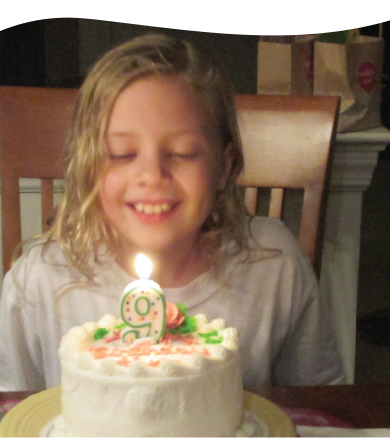
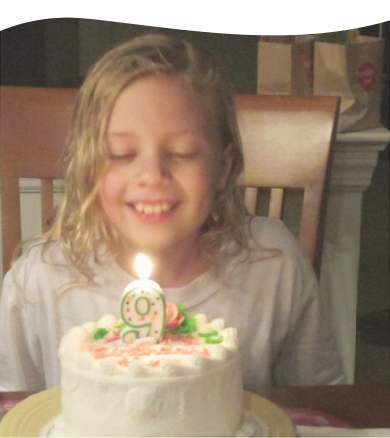
fixing up home story formatting a bit

diff --git a/src/pages/Home.tsx b/src/pages/Home.tsx
@@ -406,22 +406,22 @@ export default function Home() {
         />
         <div style={{ position: 'relative', width: '100%', zIndex: 1 }}>
           <img src="/assets/images/birthday-image.png" alt="" style={{ width: '100%', height: 'auto', display: 'block' }} />
-          <p style={{ position: 'absolute', left: '999px', top: '184px', width: '377px', fontSize: '38px', fontFamily: 'var(--font-body)', color: 'white', lineHeight: '1.3' }}>
+          <p style={{ position: 'absolute', left: '999px', top: '182px', width: '377px', fontSize: '38px', fontFamily: 'var(--font-body)', color: 'white', lineHeight: '1.3' }}>
             Hello! My name is Alexia Kouletsis. I grew up in Hershey, Pennsylvania. Since I was about nine years old, art has consumed my life. Art has been and will always be my creative outlet, emotional comfort, and method of appreciating the beauty in world around me.
           </p>
         </div>
-        <div style={{ position: 'relative', width: '100%', zIndex: 2, marginTop: '-250px' }}>
+        <div style={{ position: 'relative', width: '100%', zIndex: 2, marginTop: '-280px' }}>
           <img src="/assets/images/me-painting-image.png" alt="" style={{ width: '100%', height: 'auto', display: 'block' }} />
-          <p style={{ position: 'absolute', left: '687px', top: '373px', width: '705px', fontSize: '38px', fontFamily: 'var(--font-body)', color: '#111E33', lineHeight: '1.3' }}>
+          <p style={{ position: 'absolute', left: '687px', top: '326px', width: '705px', fontSize: '38px', fontFamily: 'var(--font-body)', color: '#111E33', lineHeight: '1.3' }}>
             Somewhere along the way of the previous image to this one, I additionally fell in love with coding. I took my first computer science class as a Sophomore in high school. The act of breaking down problems, building them back up again, and improving upon them evoked the same emotions that putting paint on a blank canvas did—excitement for new opportunities.
           </p>
         </div>
-        <div style={{ position: 'relative', width: '100%', zIndex: 3, marginTop: '-200px' }}>
+        <div style={{ position: 'relative', width: '100%', zIndex: 3, marginTop: '-360px' }}>
           <img src="/assets/images/me-graduating-image.png" alt="" style={{ width: '100%', height: 'auto', display: 'block' }} />
-          <p style={{ position: 'absolute', left: '117px', top: '172px', width: '542px', fontSize: '38px', fontFamily: 'var(--font-body)', color: '#111E33', lineHeight: '1.3' }}>
+          <p style={{ position: 'absolute', left: '117px', top: '143px', width: '542px', fontSize: '38px', fontFamily: 'var(--font-body)', color: '#111E33', lineHeight: '1.3' }}>
             I now aim to synthesize both art and technology into my life. I believe that exploring technology through the lens of other academic fields is the most fun and rewarding approach to the field.
           </p>
-          <p style={{ position: 'absolute', left: '937px', top: '708px', width: '468px', fontSize: '38px', fontFamily: 'var(--font-body)', color: '#111E33', lineHeight: '1.3' }}>
+          <p style={{ position: 'absolute', left: '937px', top: '611px', width: '468px', fontSize: '38px', fontFamily: 'var(--font-body)', color: '#111E33', lineHeight: '1.3' }}>
             I view myself as an artist who uses technology as my paintbrush. Click anywhere below to see how I apply this philosophy throughout my various works!
           </p>
         </div>
@@ -445,10 +445,10 @@ export default function Home() {
         </div>
         <div style={{ position: 'relative', width: '100%', zIndex: 3, marginTop: '-40px' }}>
           <img src="/assets/images/me-graduating-image-mobile.png" alt="" style={{ width: '100%', height: 'auto', display: 'block' }} />
-          <p style={{ position: 'absolute', left: '30px', top: '42px', width: '160px', fontSize: '12px', fontFamily: 'var(--font-body)', color: '#111E33', lineHeight: '1.4' }}>
-            I now aim to synthesize both art and technology into my life. I believe that disintegrating the boundaries between technology and other academic fields is essential for progression and perspective in any future innovations.
+          <p style={{ position: 'absolute', left: '27px', top: '42px', width: '160px', fontSize: '12px', fontFamily: 'var(--font-body)', color: '#111E33', lineHeight: '1.4' }}>
+            I now aim to synthesize both art and technology into my life. I believe that exploring technology through the lens of other academic fields is the most fun and rewarding approach to the field.
           </p>
-          <p style={{ position: 'absolute', left: '255px', top: '254px', width: '122px', fontSize: '12px', fontFamily: 'var(--font-body)', color: '#111E33', lineHeight: '1.4' }}>
+          <p style={{ position: 'absolute', left: '250px', top: '254px', width: '122px', fontSize: '12px', fontFamily: 'var(--font-body)', color: '#111E33', lineHeight: '1.4' }}>
             I view myself as an artist who uses technology as my paintbrush. Click anywhere below to see how I apply this philosophy throughout my various works!
           </p>
         </div>
